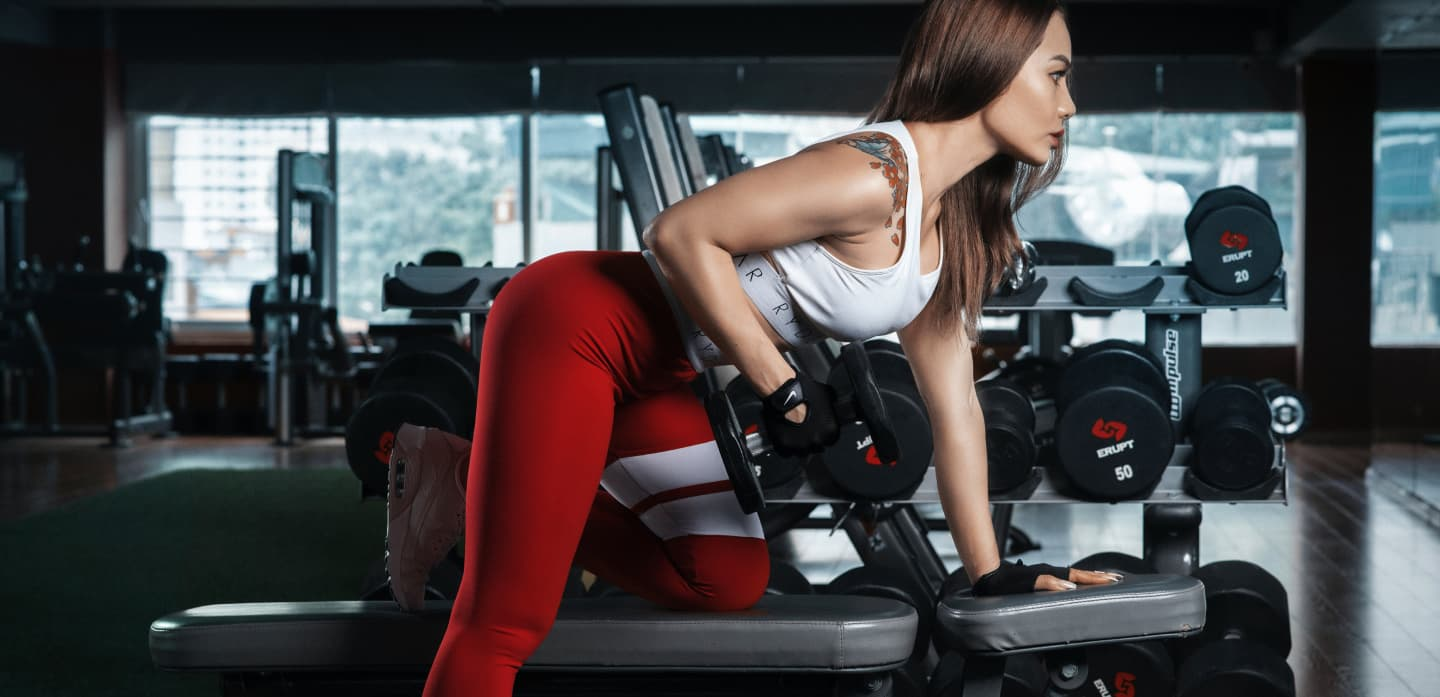
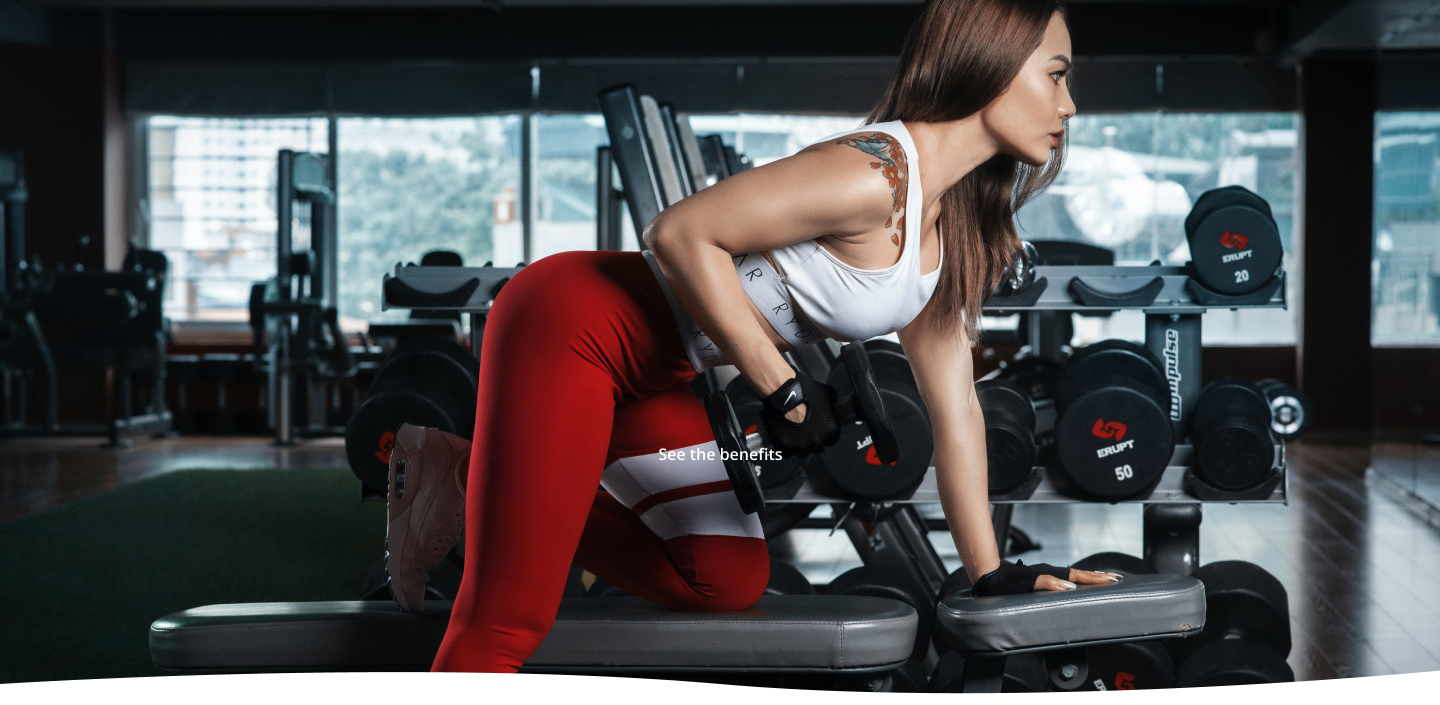
trying to correct a hero bg

diff --git a/style/main.min.css b/style/main.min.css
@@ -1,1 +1,1 @@
-ul{list-style:none;padding:0;margin:0}a{text-decoration:none}img{display:block;width:100%;max-width:100%;height:auto}h1,h2,h3,h4,p{margin:0}button{border:none;cursor:pointer;background-color:rgba(0,0,0,0)}address{font-style:normal}.container{max-width:1382px;padding:0 10px;margin-left:auto;margin-right:auto;outline:1px solid red}@media screen and (min-width: 300px){.container{width:300px}}@media screen and (min-width: 1382px){.container{width:1382px}}body{font-family:"Poppins",serif}.header{padding-top:16px;padding-bottom:16px;background:#e43071}@media screen and (min-width: 1382px){.header{padding-top:25px;padding-bottom:25px}}.header__box{display:flex;align-items:center}.header__logo{color:#fff;text-align:center;font-size:21.818px;font-weight:800;line-height:109.5%;margin-right:auto}@media screen and (min-width: 1382px){.header__logo{font-size:40px;margin-right:172px}}.header__lyfe{color:#ffc1d8}.header__nav{display:none}@media screen and (min-width: 1382px){.header__nav{display:flex;align-items:center}}.header__list{display:flex;gap:76px}.header__link{color:#fff;text-align:center;font-size:16px;font-weight:400;line-height:109.5%}.header__btn{color:#e43071;background:#fff;text-align:center;font-size:16px;font-weight:400;line-height:109.5%;border-radius:200px;padding:16px 61px;margin-left:63px}.header__btn-svg{display:block}@media screen and (min-width: 1382px){.header__btn-svg{display:none}}.header__menu{width:30px;height:30px;fill:#fff}.hero{padding:240px 0 202px 0;background-image:url(../img/hero-bg.jpg),url(../img/bg-pozitioned.png);background-position:center,center;background-repeat:no-repeat,no-repeat;background-size:cover,100px;text-align:center;position:relative}.hero__title{margin-left:auto;margin-right:auto;color:#fff;text-align:center;font-size:32px;font-weight:700;line-height:36px;width:315.047px;margin-bottom:23px}.hero__title::after{content:"";width:97px;height:17px;display:block;background-image:url(../img/slider.svg);background-repeat:no-repeat;background-position:center;position:absolute;top:95%;left:50%;transform:translateX(-50%)}@media screen and (min-width: 1382px){.hero__title{font-size:70px;width:730px;line-height:110%;margin-bottom:40px}}@media screen and (min-width: 1382px){.hero__span{color:#ffc1d8}}.hero__btn{color:#fff;text-align:center;font-family:"Open Sans";font-size:16px;font-weight:600;line-height:2.31;padding:10px 42px;border-radius:38.5px;background-color:#e43071}@media screen and (min-width: 1382px){.hero__btn{padding:14px 56px}}/*# sourceMappingURL=main.min.css.map */
+ul{list-style:none;padding:0;margin:0}a{text-decoration:none}img{display:block;width:100%;max-width:100%;height:auto}h1,h2,h3,h4,p{margin:0}button{border:none;cursor:pointer;background-color:rgba(0,0,0,0)}address{font-style:normal}.container{max-width:1382px;padding:0 10px;margin-left:auto;margin-right:auto;outline:1px solid red}@media screen and (min-width: 300px){.container{width:300px}}@media screen and (min-width: 1382px){.container{width:1382px}}body{font-family:"Poppins",serif}.header{padding-top:16px;padding-bottom:16px;background:#e43071}@media screen and (min-width: 1382px){.header{padding-top:25px;padding-bottom:25px}}.header__box{display:flex;align-items:center}.header__logo{color:#fff;text-align:center;font-size:21.818px;font-weight:800;line-height:109.5%;margin-right:auto}@media screen and (min-width: 1382px){.header__logo{font-size:40px;margin-right:172px}}.header__lyfe{color:#ffc1d8}.header__nav{display:none}@media screen and (min-width: 1382px){.header__nav{display:flex;align-items:center}}.header__list{display:flex;gap:76px}.header__link{color:#fff;text-align:center;font-size:16px;font-weight:400;line-height:109.5%}.header__btn{color:#e43071;background:#fff;text-align:center;font-size:16px;font-weight:400;line-height:109.5%;border-radius:200px;padding:16px 61px;margin-left:63px}.header__btn-svg{display:block}@media screen and (min-width: 1382px){.header__btn-svg{display:none}}.header__menu{width:30px;height:30px;fill:#fff}.hero{padding:240px 0 202px 0;background-image:url(../img/hero-bg.jpg);background-position:center;background-repeat:no-repeat;background-size:cover;text-align:center;position:relative}.hero__title{margin-left:auto;margin-right:auto;color:#fff;text-align:center;font-size:32px;font-weight:700;line-height:36px;width:315.047px;margin-bottom:23px}.hero__title::after{content:"";width:97px;height:17px;display:block;background-image:url(../img/slider.svg);background-repeat:no-repeat;background-position:center;position:absolute;top:95%;left:50%;transform:translateX(-50%)}@media screen and (min-width: 1382px){.hero__title{font-size:70px;width:730px;line-height:110%;margin-bottom:40px}}@media screen and (min-width: 1382px){.hero__span{color:#ffc1d8}}.hero__btn{color:#fff;text-align:center;font-family:"Open Sans";font-size:16px;font-weight:600;line-height:2.31;padding:10px 42px;border-radius:38.5px;background-color:#e43071}@media screen and (min-width: 1382px){.hero__btn{padding:14px 56px}}/*# sourceMappingURL=main.min.css.map */

diff --git a/scss/section/_hero.scss b/scss/section/_hero.scss
@@ -1,9 +1,9 @@
 .hero {
     padding: 240px 0 202px 0;
-    background-image: url(../img/hero-bg.jpg), url(../img/bg-pozitioned.png);
-    background-position: center, center;
-    background-repeat: no-repeat, no-repeat;
-    background-size: cover, 100px;
+    background-image: url(../img/hero-bg.jpg);
+    background-position: center;
+    background-repeat: no-repeat;
+    background-size: cover;
     text-align: center;
     position: relative;
 

diff --git a/style/main.css b/style/main.css
@@ -130,10 +130,10 @@ body {
 
 .hero {
   padding: 240px 0 202px 0;
-  background-image: url(../img/hero-bg.jpg), url(../img/bg-pozitioned.png);
-  background-position: center, center;
-  background-repeat: no-repeat, no-repeat;
-  background-size: cover, 100px;
+  background-image: url(../img/hero-bg.jpg);
+  background-position: center;
+  background-repeat: no-repeat;
+  background-size: cover;
   text-align: center;
   position: relative;
 }
